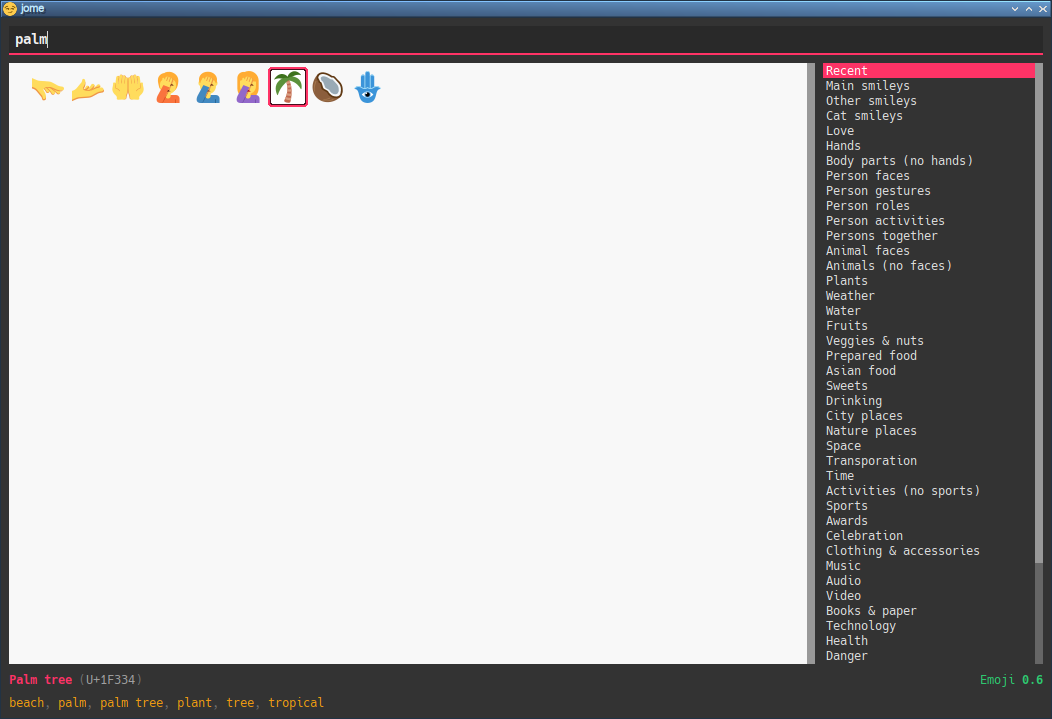
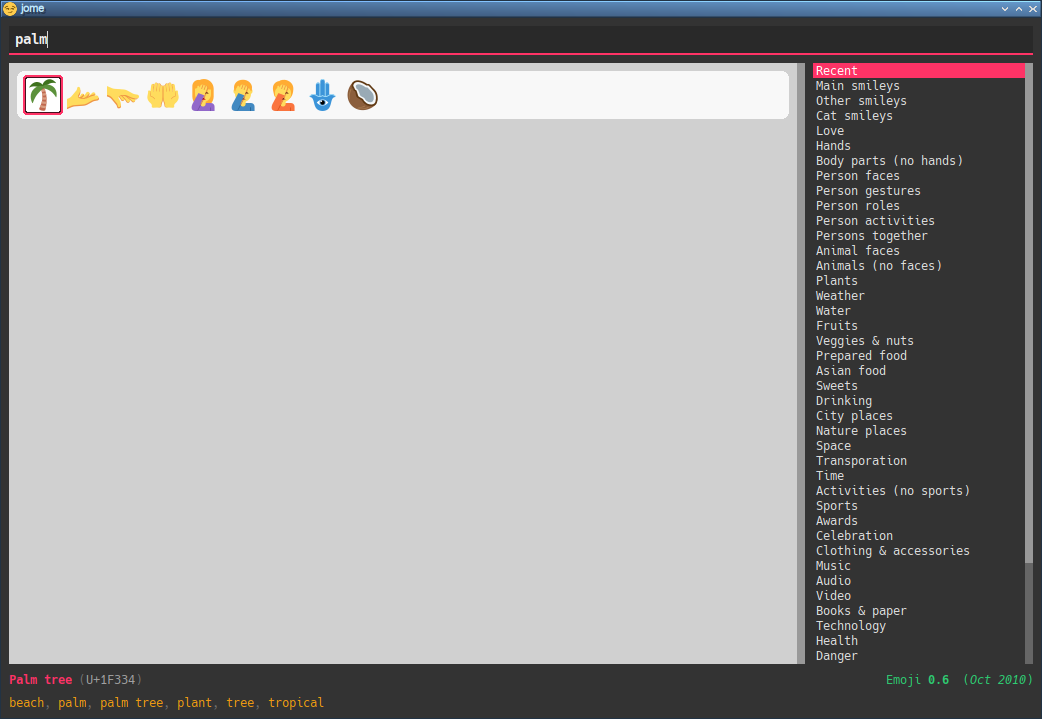
Sort find results by "relevance"
This patch attempts to sort the find results by "relevance".

When finding emojis, there's now a score system for each term:

Exact name match:                                   Set to 100
Partial name match at the beginning:                Set to 80
Partial name match:                                 Set to 60
Exact keyword match (any):                          Add 40
Partial keyword match at the beginning (any):       Add 30
Partial keyword match (any):                        Add 20

The final score is the sum of the partial term scores.

If any term has a score of zero, the emoji remains excluded from the
find results. Changing this would lead to too many results and probably
constitute a UX regression. The find results are automatically sorted in
an `std::set` by score first, and then by global position (this used to
be the only sorting criteria) to break the tie.

The "Recent" category is now excluded. I'm thinking about adding an
option to include it again, but I'll wait to see if someone's angry.

I find that the find results are much more relevant this way, and the
first emoji (the selected one while finding) is often the expected one
with only a few characters in one or two terms.

Fixes: https://github.com/eepp/jome/issues/23

diff --git a/jome/emoji-db.cpp b/jome/emoji-db.cpp
@@ -14,11 +14,10 @@
 #include <QStandardPaths>
 #include <QtDebug>
 #include <QFile>
+#include <algorithm>
 #include <boost/algorithm/string.hpp>
 #include <nlohmann/json.hpp>
 #include <fmt/format.h>
-#include <qglobal.h>
-#include <qstandardpaths.h>
 
 #include "nlohmann/json_fwd.hpp"
 #include "utils.hpp"
@@ -31,6 +30,7 @@ Emoji::Emoji(QString str, QString name,
              const EmojiVersion version) :
     _str {std::move(str)},
     _name {std::move(name)},
+    _lcName {_name.toLower()},
     _keywords {std::move(keywords)},
     _hasSkinToneSupport {hasSkinToneSupport},
     _version {version}
@@ -90,13 +90,15 @@ Emoji::Codepoints Emoji::codepoints(const boost::optional<SkinTone>& skinTone,
 EmojiCat::EmojiCat(QString id, QString name, std::vector<const Emoji *>&& emojis) :
     _id {std::move(id)},
     _name {std::move(name)},
+    _lcName {_name.toLower()},
     _emojis {std::move(emojis)}
 {
 }
 
 EmojiCat::EmojiCat(QString id, QString name) :
     _id {std::move(id)},
-    _name {std::move(name)}
+    _name {std::move(name)},
+    _lcName {_name.toLower()}
 {
 }
 
@@ -371,59 +373,80 @@ void EmojiDb::findEmojis(QString catName, const QString& needlesStr,
                          std::vector<const Emoji *>& results) const
 {
     // split `needlesStr` into individual needles
-    const auto needles = needlesStr.trimmed().toLower().split(" +");
-
-    if (needles.isEmpty()) {
-        // nothing to search
-        return;
-    }
+    const auto needles = needlesStr.toLower().split(QRegExp {" +"}, Qt::SkipEmptyParts);
 
     // trim category
     catName = catName.trimmed();
 
     // clear temporary results
-    _tmpFoundEmojis.clear();
+    _tmpFindResults.clear();
+    _tmpFindResultEmojis.clear();
+
+    auto pos = 0U;
 
     for (auto& cat : _cats) {
-        if (!catName.isEmpty() && !cat->name().toLower().contains(catName)) {
-            // we don't want to search this category
+        if (cat->id() == "recent") {
+            // exclude "Recent" category
+            continue;
+        }
+
+        if (!catName.isEmpty() && !cat->lcName().contains(catName)) {
+            // we don't even want to search this category
             continue;
         }
 
         for (auto emoji : cat->emojis()) {
-            auto select = true;
+            auto score = 0U;
 
-            for (auto& keyword : emoji->keywords()) {
-                select = true;
+            for (auto& needle : needles) {
+                auto needleScore = 0U;
 
-                for (auto& needle : needles) {
-                    assert(!needle.isEmpty());
+                if (emoji->lcName() == needle) {
+                    needleScore = 100;
+                } else if (emoji->lcName().startsWith(needle)) {
+                    needleScore = 80;
+                } else if (emoji->lcName().contains(needle)) {
+                    needleScore = 60;
+                }
 
-                    if (!keyword.contains(needle)) {
-                        // this keyword does not contain this needle
-                        select = false;
+                auto addToNeedleScore = 0U;
+
+                for (auto& keyword : emoji->keywords()) {
+                    if (keyword == needle) {
+                        addToNeedleScore = 40;
                         break;
+                    }
+
+                    if (keyword.startsWith(needle)) {
+                        addToNeedleScore = std::max(addToNeedleScore, 30U);
+                    } else if (keyword.contains(needle)) {
+                        addToNeedleScore = std::max(addToNeedleScore, 20U);
                     }
                 }
 
-                if (select) {
+                needleScore += addToNeedleScore;
+
+                if (needleScore == 0) {
+                    score = 0;
                     break;
+                }
+
+                score += needleScore;
+            }
+
+            if (needles.isEmpty() || score > 0) {
+                if (_tmpFindResultEmojis.count(emoji) == 0) {
+                    _tmpFindResults.insert({score, pos, emoji});
+                    _tmpFindResultEmojis.insert(emoji);
                 }
             }
 
-            if (!select) {
-                // not selected: next emoji
-                continue;
-            }
-
-            if (_tmpFoundEmojis.find(emoji) != _tmpFoundEmojis.end()) {
-                // we already have it: next emoji
-                continue;
-            }
-
-            results.push_back(emoji);
-            _tmpFoundEmojis.insert(emoji);
+            ++pos;
         }
+    }
+
+    for (auto it = _tmpFindResults.crbegin(); it != _tmpFindResults.crend(); ++it) {
+        results.push_back(it->emoji);
     }
 }
 

diff --git a/jome/emoji-db.hpp b/jome/emoji-db.hpp
@@ -13,6 +13,7 @@
 #include <memory>
 #include <unordered_map>
 #include <unordered_set>
+#include <set>
 #include <QString>
 #include <nlohmann/json.hpp>
 
@@ -69,6 +70,11 @@ public:
         return _name;
     }
 
+    const QString& lcName() const noexcept
+    {
+        return _lcName;
+    }
+
     const std::unordered_set<QString>& keywords() const noexcept
     {
         return _keywords;
@@ -87,6 +93,7 @@ public:
 private:
     const QString _str;
     const QString _name;
+    const QString _lcName;
     const std::unordered_set<QString> _keywords;
     const bool _hasSkinToneSupport;
     const EmojiVersion _version;
@@ -109,6 +116,11 @@ public:
         return _name;
     }
 
+    const QString& lcName() const noexcept
+    {
+        return _lcName;
+    }
+
     std::vector<const Emoji *>& emojis() noexcept
     {
         return _emojis;
@@ -122,6 +134,7 @@ public:
 private:
     const QString _id;
     const QString _name;
+    const QString _lcName;
     std::vector<const Emoji *> _emojis;
 };
 
@@ -204,6 +217,23 @@ public:
     }
 
 private:
+    struct _FindResult final
+    {
+        unsigned int score;
+        unsigned int pos;
+        const Emoji *emoji;
+
+        bool operator<(const _FindResult& other) const noexcept
+        {
+            if (score == other.score) {
+                return pos < other.pos;
+            }
+
+            return score < other.score;
+        }
+    };
+
+private:
     void _createEmojis(const QString& dir);
     void _createCats(const QString& dir, bool noRecentCat);
     void _createEmojiPngLocations(const QString& dir);
@@ -215,7 +245,8 @@ private:
     std::unordered_map<QString, std::unique_ptr<const Emoji>> _emojis;
     std::unordered_set<QString> _keywords;
     std::unordered_map<const Emoji *, EmojisPngLocation> _emojiPngLocations;
-    mutable std::unordered_set<const Emoji *> _tmpFoundEmojis;
+    mutable std::set<_FindResult> _tmpFindResults;
+    mutable std::set<const Emoji *> _tmpFindResultEmojis;
     EmojiCat *_recentEmojisCat = nullptr;
     unsigned int _maxRecentEmojis;
 };
